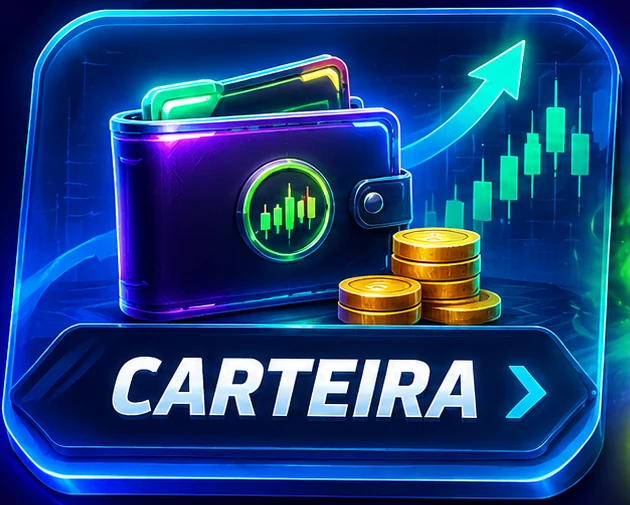
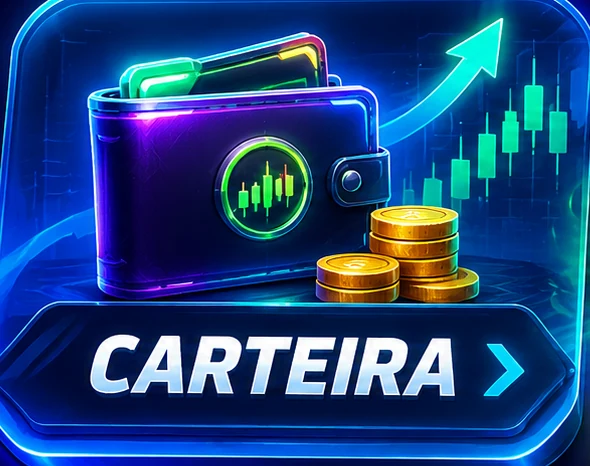
Home: a arte preenche o botão inteiro (Carteira, JOGAR AGORA, Mercado)
- recorte por dentro da borda de cada arte; cartões arredondados com contorno neon da cor do botão
- altura acompanha a largura na proporção da arte: preenche sem cortar o texto em telas estreitas

Claude-Session: https://claude.ai/code/session_013zkydZMKUcBE1FaabZZpVy

diff --git a/home_game.py b/home_game.py
@@ -313,15 +313,13 @@ def css() -> str:
             f"{c} .hg-cf img{{width:52px;height:50px;object-fit:cover;-webkit-mask:radial-gradient(ellipse at 50% 50%,#000 58%,transparent 74%);"
             "mask:radial-gradient(ellipse at 50% 50%,#000 58%,transparent 74%)}"
             f"{c} .hg-cf b{{font-size:.8rem;font-weight:900;color:#FFD76A;white-space:nowrap;margin-top:-4px}}{c} .hg-cf b.ok{{color:#7CF0C0}}"
-            # ---- 5. acessos: a mesma fileira de três (Carteira · JOGAR AGORA maior, no meio · Mercado), cada botão é a arte inteira
-            f"{c} .st-key-hg_acessos{{display:grid !important;grid-template-columns:minmax(0,1fr) minmax(0,1.38fr) minmax(0,1fr);gap:0 !important;align-items:end}}"
+            # ---- 5. acessos: a mesma fileira de três (Carteira · JOGAR AGORA maior, no meio · Mercado); a arte preenche o botão inteiro
+            f"{c} .st-key-hg_acessos{{display:grid !important;grid-template-columns:minmax(0,1fr) minmax(0,1.3fr) minmax(0,1fr);gap:5px !important;align-items:center}}"
             f"{c} .st-key-hg_acessos>*{{min-width:0}}"
-            f"{c} .hg-bt{{position:relative;line-height:0}}"
-            f"{c} .hg-bt img{{display:block;width:100%;height:auto}}"
-            # bordas das artes dissolvidas no fundo da tela (o fundo da arte não é exatamente o da tela)
-            f"{c} .hg-bt img{{-webkit-mask:linear-gradient(90deg,transparent,#000 7%,#000 93%,transparent),linear-gradient(180deg,transparent,#000 9%,#000 92%,transparent);"
-            "-webkit-mask-composite:source-in;mask:linear-gradient(90deg,transparent,#000 7%,#000 93%,transparent),linear-gradient(180deg,transparent,#000 9%,#000 92%,transparent);"
-            "mask-composite:intersect}"
+            f"{c} .hg-bt{{position:relative;aspect-ratio:590/466;border-radius:14px;overflow:hidden;line-height:0;box-shadow:0 0 0 1.5px var(--b),0 0 14px -3px var(--b)}}"
+            f"{c} .hg-bt img{{display:block;width:100%;height:100%;object-fit:cover}}"
+            f"{c} .hg-b-carteira{{--b:#3D8BFF}}{c} .hg-b-mercado{{--b:#FF3D7A}}"
+            f"{c} .hg-b-jogar{{--b:#B6FF3D;aspect-ratio:830/592}}"
             f"{c} .st-key-hg_acessos [class*='st-key-hg_ac_']:has(button:active) .hg-bt{{filter:brightness(1.15)}}"
             "@media (max-width:360px){"
             f"{c} .hg-lvt span{{display:none}}{c} .hg-pass{{min-width:80px;padding:5px 6px}}{c} .hg-lg{{width:52px;height:48px}}"
